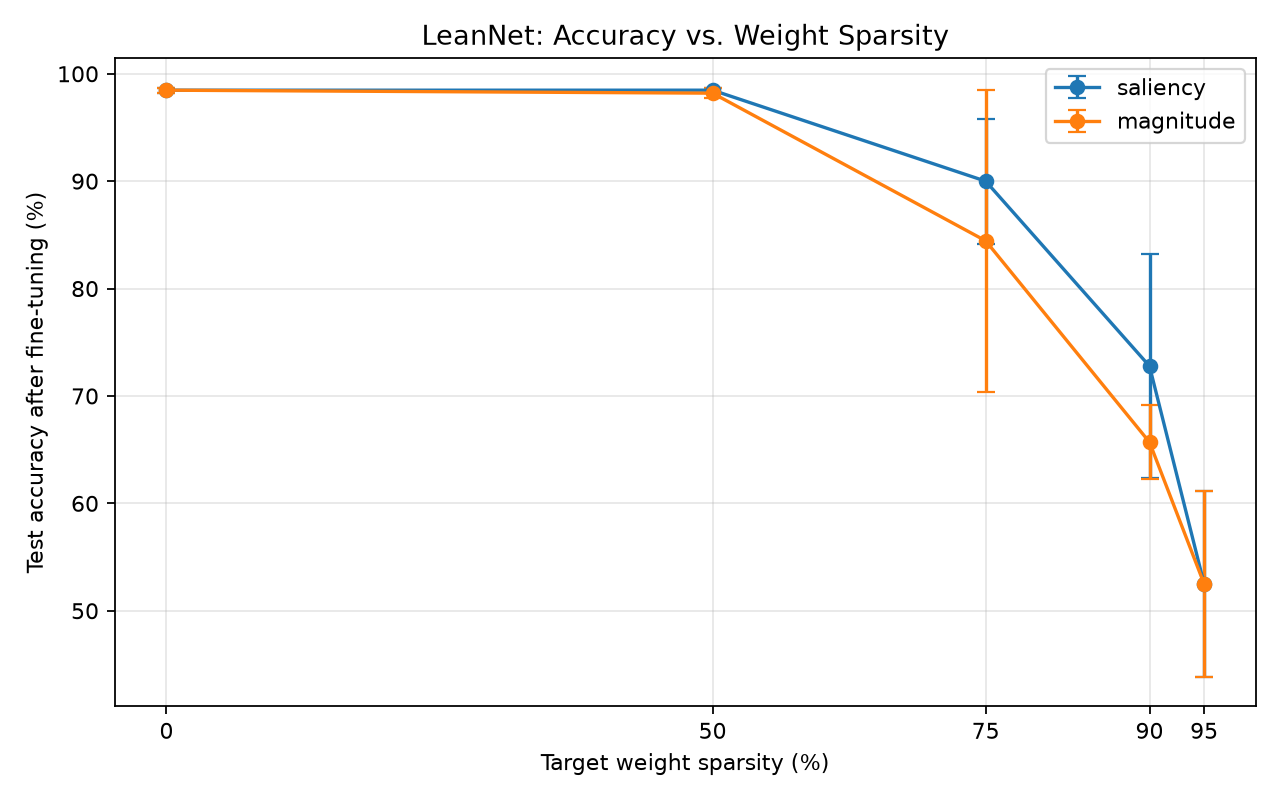
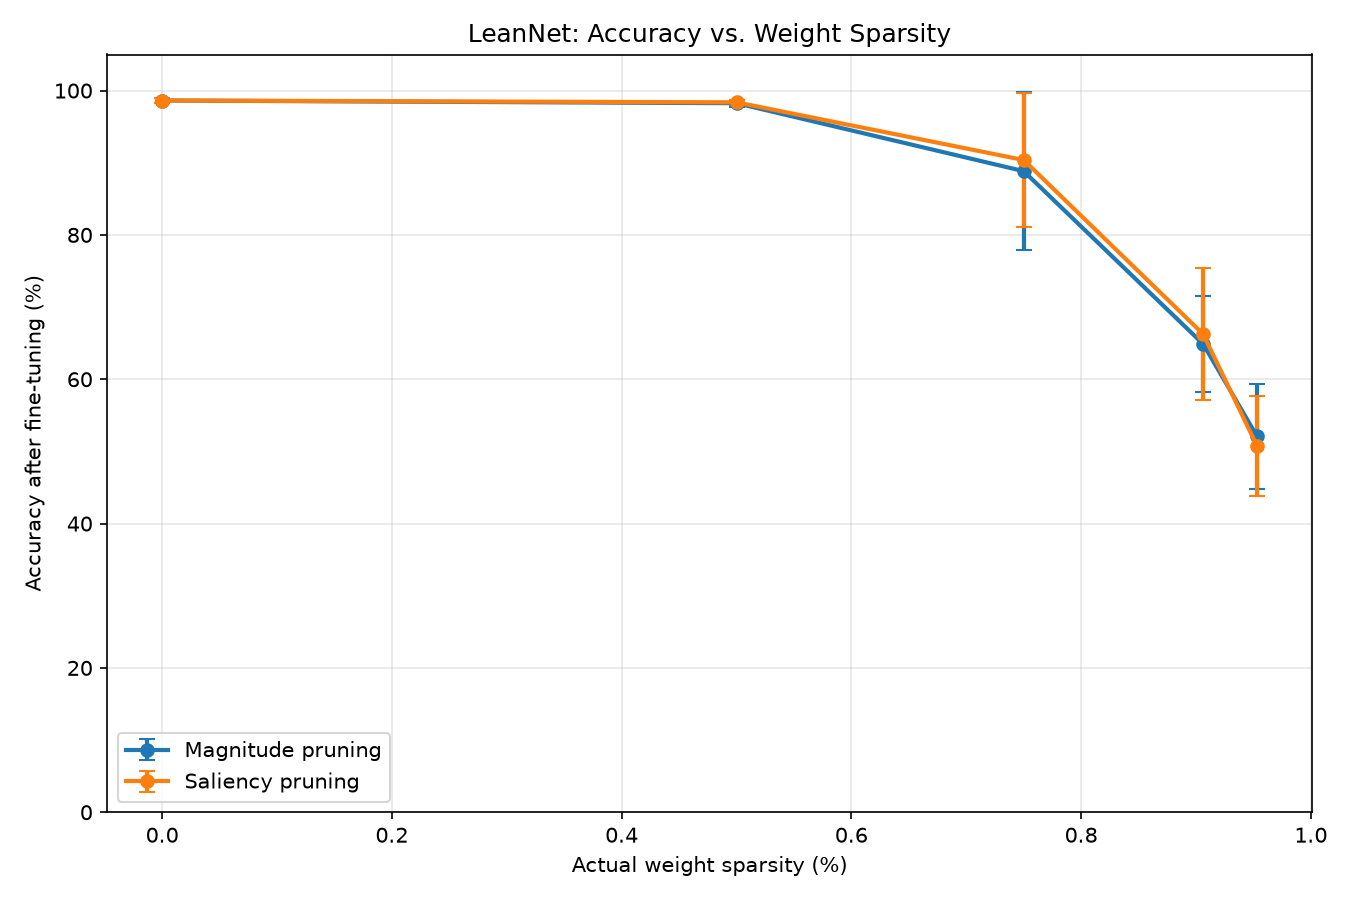
Add pruning experiment analysis

diff --git a/train/plot_results.py b/train/plot_results.py
@@ -1,0 +1,83 @@
+
+import csv
+from collections import defaultdict
+from pathlib import Path
+
+import matplotlib.pyplot as plt
+
+
+RESULTS_FILE = Path("results/sparsity_sweep.csv")
+OUTPUT_FILE = Path("results/sparsity_accuracy.png")
+
+# Group results by pruning method and target sparsity.
+groups = defaultdict(list)
+
+with RESULTS_FILE.open("r", newline="", encoding="utf-8") as file:
+    reader = csv.DictReader(file)
+
+    for row in reader:
+        method = row["criterion"]
+        sparsity = float(row["actual_sparsity"])
+        accuracy = float(row["accuracy_after_finetune_pct"])
+
+        groups[(method, sparsity)].append(accuracy)
+
+methods = {
+    "magnitude": "Magnitude pruning",
+    "saliency": "Saliency pruning",
+}
+
+fig, ax = plt.subplots(figsize=(9, 6))
+
+for method, label in methods.items():
+    points = []
+
+    for (group_method, sparsity), accuracies in groups.items():
+        if group_method != method:
+            continue
+
+        mean_accuracy = sum(accuracies) / len(accuracies)
+
+        if len(accuracies) > 1:
+            variance = sum(
+                (value - mean_accuracy) ** 2
+                for value in accuracies
+            ) / (len(accuracies) - 1)
+            std_dev = variance ** 0.5
+        else:
+            std_dev = 0.0
+
+        points.append((sparsity, mean_accuracy, std_dev))
+
+    points.sort(key=lambda point: point[0])
+
+    x = [point[0] for point in points]
+    means = [point[1] for point in points]
+    errors = [point[2] for point in points]
+
+    ax.errorbar(
+        x,
+        means,
+        yerr=errors,
+        marker="o",
+        capsize=4,
+        linewidth=2,
+        label=label,
+    )
+
+ax.set(
+    title="LeanNet: Accuracy vs. Weight Sparsity",
+    xlabel="Actual weight sparsity (%)",
+    ylabel="Accuracy after fine-tuning (%)",
+)
+
+ax.set_ylim(0, 105)
+ax.grid(True, alpha=0.3)
+ax.legend()
+fig.tight_layout()
+
+OUTPUT_FILE.parent.mkdir(parents=True, exist_ok=True)
+fig.savefig(OUTPUT_FILE, dpi=150)
+print(f"Plot saved to: {OUTPUT_FILE}")
+
+plt.show()

diff --git a/train/compare_methods.py b/train/compare_methods.py
@@ -1,0 +1,66 @@
+
+import csv
+from collections import defaultdict
+from pathlib import Path
+from statistics import mean, stdev
+
+RESULTS_FILE = Path("results/sparsity_sweep.csv")
+
+# Store accuracy by (seed, sparsity, method).
+results = defaultdict(dict)
+
+with RESULTS_FILE.open("r", newline="", encoding="utf-8") as file:
+    reader = csv.DictReader(file)
+
+    for row in reader:
+        seed = int(row["seed"])
+        sparsity = float(row["target_sparsity"])
+        method = row["criterion"]
+        accuracy = float(row["accuracy_after_finetune_pct"])
+
+        results[(seed, sparsity)][method] = accuracy
+
+print("\nPAIRED PRUNING METHOD COMPARISON")
+print("=" * 88)
+print(
+    f"{'Target':>8} {'Magnitude':>12} {'Saliency':>12} "
+    f"{'Saliency advantage':>20} {'Std dev':>12} {'Seeds':>7}"
+)
+print("-" * 88)
+
+for sparsity in sorted({key[1] for key in results}):
+    differences = []
+    magnitude_scores = []
+    saliency_scores = []
+
+    for (seed, target), scores in results.items():
+        if target != sparsity:
+            continue
+
+        # Compare only seeds that have results for both methods.
+        if "magnitude" not in scores or "saliency" not in scores:
+            continue
+
+        magnitude_scores.append(scores["magnitude"])
+        saliency_scores.append(scores["saliency"])
+        differences.append(scores["saliency"] - scores["magnitude"])
+
+    if not differences:
+        print(f"{sparsity:>7.0%}  No paired results")
+        continue
+
+    avg_difference = mean(differences)
+    difference_std = stdev(differences) if len(differences) > 1 else 0.0
+
+    print(
+        f"{sparsity:>7.0%} "
+        f"{mean(magnitude_scores):>11.2f}% "
+        f"{mean(saliency_scores):>11.2f}% "
+        f"{avg_difference:>+19.2f} pp "
+        f"{difference_std:>11.2f} "
+        f"{len(differences):>7}"
+    )
+
+print("=" * 88)
+print("Positive advantage means saliency performed better.")
+print("The standard deviation is across paired per-seed differences.")

diff --git a/train/summarize_results.py b/train/summarize_results.py
@@ -1,0 +1,58 @@
+
+import csv
+import statistics
+from collections import defaultdict
+from pathlib import Path
+
+RESULTS_FILE = Path("results/sparsity_sweep.csv")
+
+groups = defaultdict(list)
+
+with RESULTS_FILE.open("r", newline="", encoding="utf-8") as file:
+    reader = csv.DictReader(file)
+
+    for row in reader:
+        key = (
+            row["criterion"],
+            float(row["target_sparsity"]),
+        )
+        groups[key].append(row)
+
+print("\nPRUNING EXPERIMENT SUMMARY")
+print("=" * 78)
+print(
+    f"{'Method':<12} {'Target':>8} {'Actual':>8} "
+    f"{'Accuracy mean':>15} {'Std dev':>10} {'Mean loss':>12}"
+)
+print("-" * 78)
+
+for (method, target), rows in sorted(groups.items()):
+    accuracies = [
+        float(row["accuracy_after_finetune_pct"])
+        for row in rows
+    ]
+    actual_sparsities = [
+        float(row["actual_sparsity"]) * 100
+        for row in rows
+    ]
+    losses = [
+        float(row["loss_after_finetune"])
+        for row in rows
+    ]
+
+    mean_accuracy = statistics.mean(accuracies)
+    std_accuracy = statistics.stdev(accuracies) if len(accuracies) > 1 else 0.0
+    mean_sparsity = statistics.mean(actual_sparsities)
+    mean_loss = statistics.mean(losses)
+
+    print(
+        f"{method:<12} {target * 100:>7.0f}% "
+        f"{mean_sparsity:>7.2f}% "
+        f"{mean_accuracy:>12.2f}% "
+        f"{std_accuracy:>9.2f} "
+        f"{mean_loss:>12.4f}"
+    )
+
+print("=" * 78)
+print("Accuracy and standard deviation are measured in percentage points.")
+print(f"Seeds per configuration: {len(rows)} (expected: 10)")

diff --git a/train/experiment_sweep.py b/train/experiment_sweep.py
@@ -19,7 +19,7 @@ from train.train_mlp import (
 
 
 OUTPUT_DIR = Path("results")
-SEEDS = [42, 43, 44]
+SEEDS = list(range(42, 52))
 SPARSITIES = [0.0, 0.50, 0.75, 0.90, 0.95]
 BASELINE_EPOCHS = 100
 FINE_TUNE_EPOCHS = 10

diff --git a/results/EXPERIMENT_REPORT.md b/results/EXPERIMENT_REPORT.md
@@ -1,0 +1,57 @@
+# LeanNet: Weight Pruning Experiment Report
+
+## Objective
+
+Evaluate how weight sparsity affects model accuracy and compare magnitude-based pruning with saliency-based pruning.
+
+## Experimental setup
+
+- **Task:** Synthetic binary classification
+- **Model:** Multilayer perceptron (2 → 16 → 2)
+- **Baseline training:** 100 epochs
+- **Fine-tuning after pruning:** 10 epochs
+- **Random seeds:** 42–51 (10 seeds)
+- **Pruning methods:** Magnitude and saliency
+- **Target sparsities:** 0%, 50%, 75%, 90%, 95%
+- **Evaluation metric:** Accuracy after fine-tuning
+
+Magnitude pruning removes weights with the smallest absolute values. Saliency pruning uses the absolute weight-gradient product, `|weight × gradient|`, to estimate weight importance.
+
+## Results
+
+| Method | Target sparsity | Actual sparsity | Mean accuracy | Std. dev. |
+|---|---:|---:|---:|---:|
+| Magnitude | 0% | 0.00% | 98.62% | 0.28 |
+| Saliency | 0% | 0.00% | 98.62% | 0.28 |
+| Magnitude | 50% | 50.00% | 98.25% | 0.47 |
+| Saliency | 50% | 50.00% | 98.38% | 0.31 |
+| Magnitude | 75% | 75.00% | 88.83% | 10.93 |
+| Saliency | 75% | 75.00% | 90.38% | 9.26 |
+| Magnitude | 90% | 90.62% | 64.88% | 6.60 |
+| Saliency | 90% | 90.62% | 66.25% | 9.10 |
+| Magnitude | 95% | 95.31% | 52.08% | 7.29 |
+| Saliency | 95% | 95.31% | 50.75% | 6.88 |
+
+Accuracy and standard deviation are expressed in percentage points.
+
+## Paired method comparison
+
+The mean per-seed accuracy difference (saliency minus magnitude) was:
+
+| Target sparsity | Mean difference |
+|---:|---:|
+| 0% | +0.00 percentage points |
+| 50% | +0.13 percentage points |
+| 75% | +1.54 percentage points |
+| 90% | +1.38 percentage points |
+| 95% | -1.33 percentage points |
+
+These differences are descriptive and do not establish statistical significance. The standard deviation of paired differences was 0.48, 8.44, 5.40, and 9.14 percentage points at 50%, 75%, 90%, and 95% sparsity, respectively.
+
+## Observations
+
+1. At 50% sparsity, both methods retain accuracy close to the dense baseline.
+2. At 75% sparsity, mean accuracy decreases and variability across seeds increases.
+3. At 90% and 95% sparsity, accuracy degrades substantially.
+4. Saliency has a modest average advantage at 75% and 90%, but the results vary across seeds.
+5. Neither method demonstrates reliable performance
